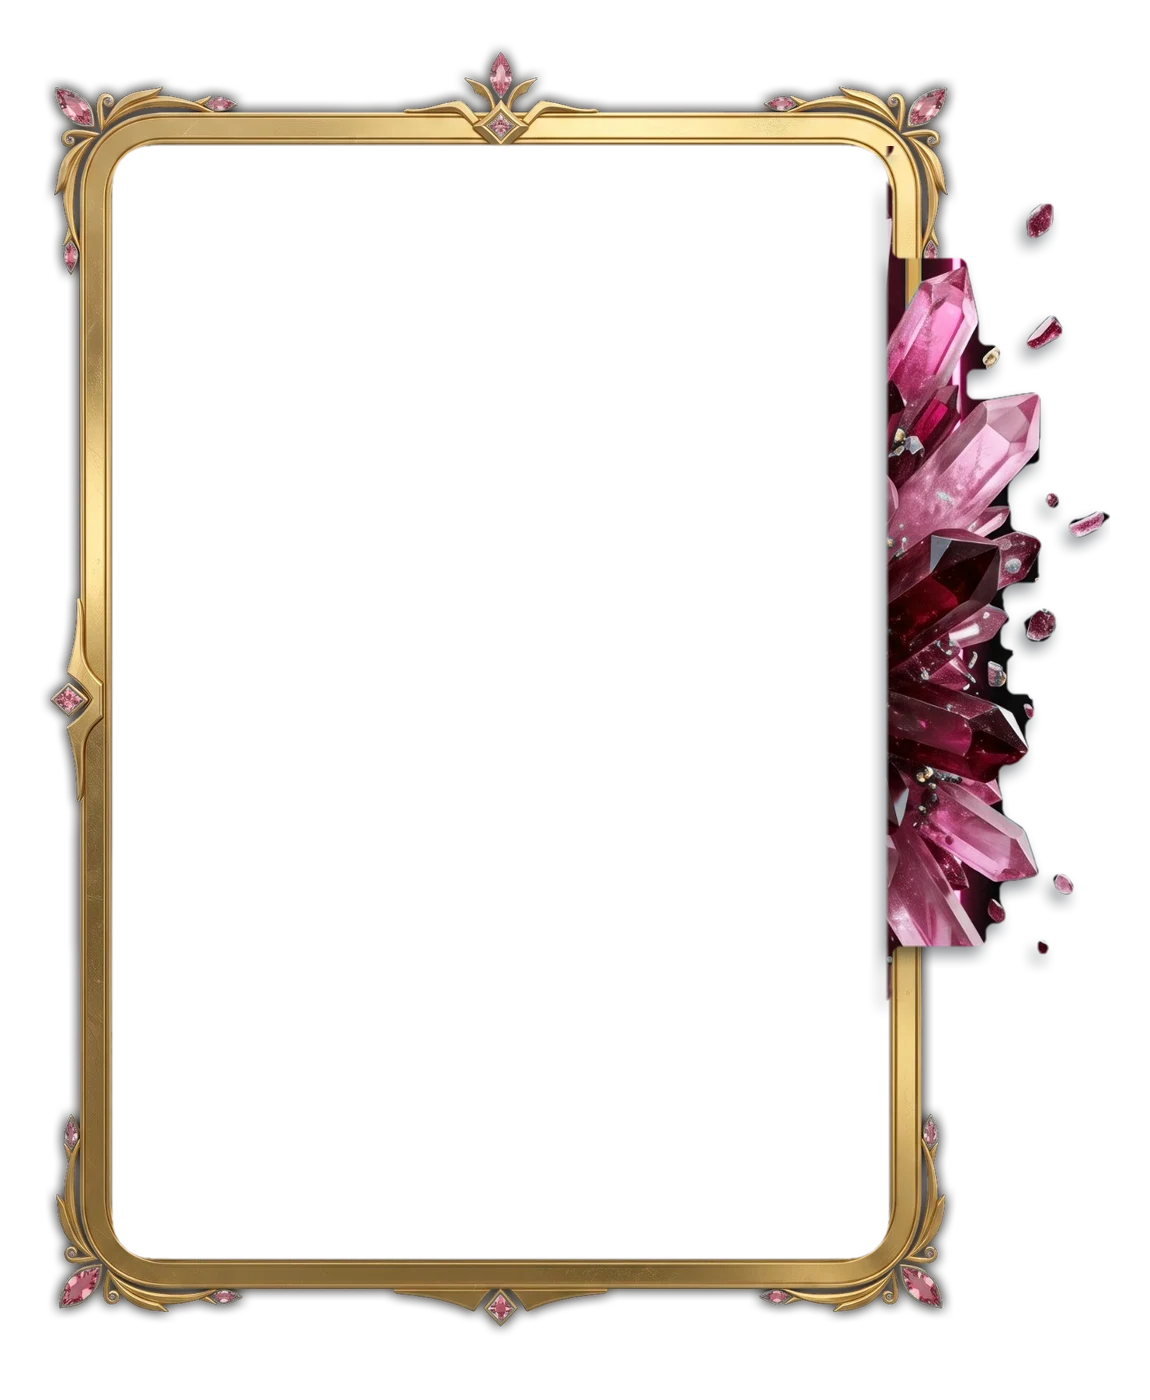
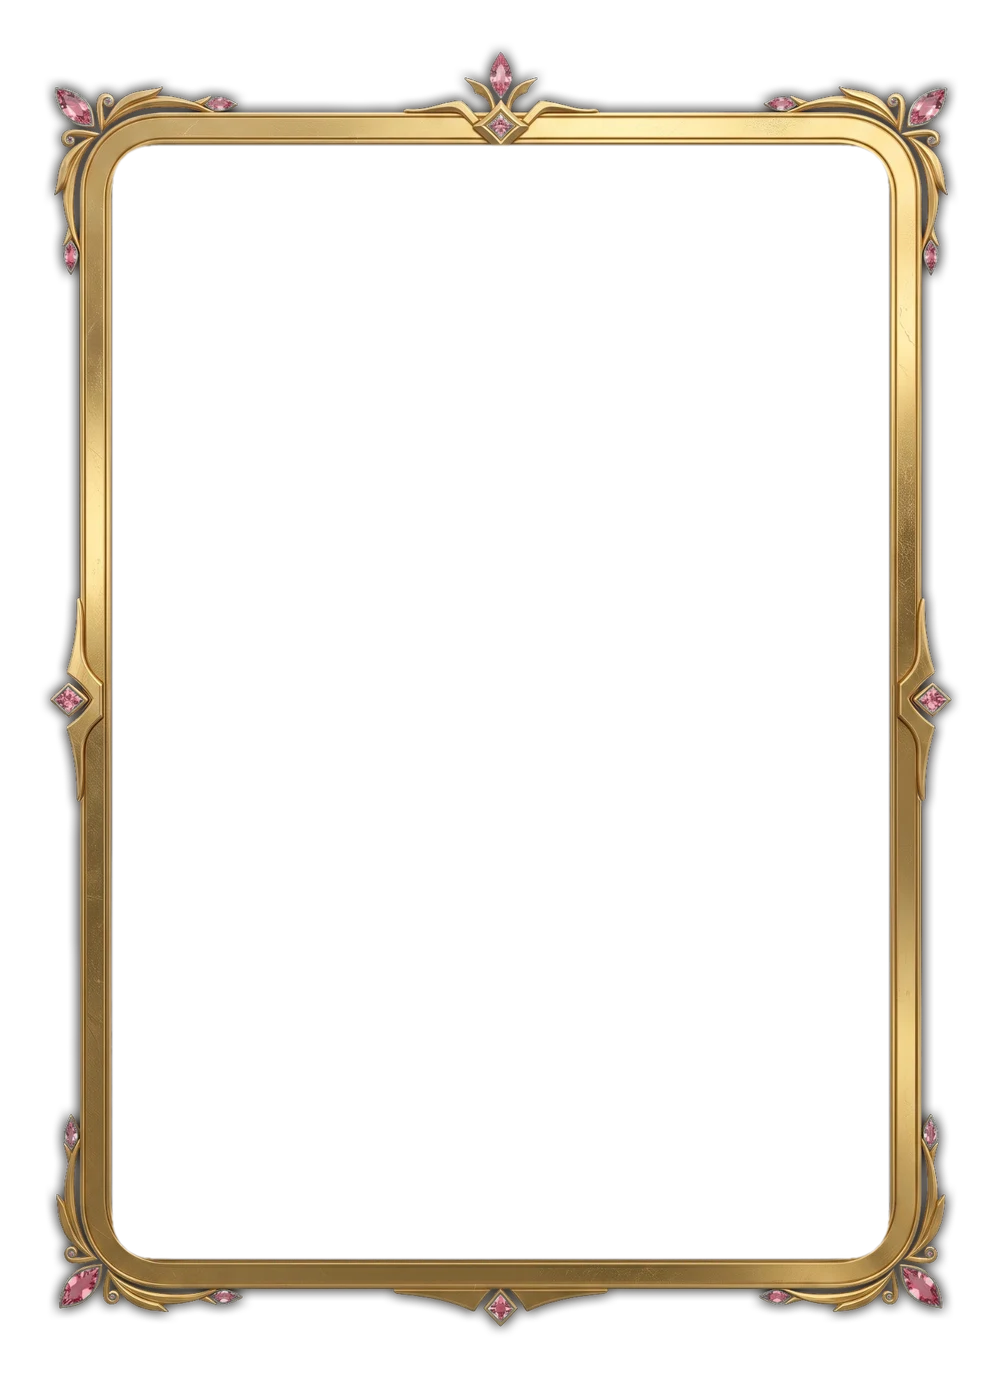
remove extracted cluster from Rubi and Icone until proper render art arrives
Claude-Session: https://claude.ai/code/session_01N8XLJoyFiwvoZXFrULaieo

diff --git a/components/cancha-card.tsx b/components/cancha-card.tsx
@@ -149,7 +149,7 @@ const ROUPAS = {
   esmeralda: { background: "premium-esmeralda", overflow: "premium-esmeralda-vaza", overflowWidth: 774 / 714, artFrame: true, trim: null, metal: ["#0f6b45", "#0f6b45", "#5fd39a"], accent: "#5fd39a", light: "160 255 200", bar: "#03140c", muted: "#9fffc8", sparkles: false, neon: "#2dffa0" },
   safira: { background: "premium-safira", overflow: "premium-safira-vaza", overflowWidth: 774 / 714, artFrame: true, trim: null, metal: ["#1d4fa8", "#1d4fa8", "#7fb0ff"], accent: "#7fb0ff", light: "170 200 255", bar: "#040a1c", muted: "#a9c8ff", sparkles: false, neon: "#36a6ff" },
   ametista: { background: "premium-ametista", overflow: "premium-ametista-vaza", overflowWidth: 774 / 714, artFrame: true, trim: null, metal: ["#5b2fa0", "#5b2fa0", "#b99bff"], accent: "#b99bff", light: "220 190 255", bar: "#0e0620", muted: "#d2bcff", sparkles: false, neon: "#c46bff" },
-  rubi: { background: "premium-rubi-fino", overflow: "premium-rubi-fino-vaza", overflowWidth: 1.15, artInset: { x: 3.69, y: 2.64, radius: 4.5 }, window: "ring", windowInset: { x: 3.69, y: 2.64 }, windowRadius: 4.5, contentPad: 3.99, artFrame: true, trim: null, metal: ["#9b1530", "#9b1530", "#ff8fa3"], accent: "#ff8fa3", light: "255 190 200", bar: "#1a0309", muted: "#ffb3c0", sparkles: false, neon: "#ff2f66" },
+  rubi: { background: "premium-rubi-fino", overflow: "premium-rubi-fino-vaza", artInset: { x: 3.69, y: 2.64, radius: 4.5 }, window: "ring", windowInset: { x: 3.69, y: 2.64 }, windowRadius: 4.5, contentPad: 3.99, artFrame: true, trim: null, metal: ["#9b1530", "#9b1530", "#ff8fa3"], accent: "#ff8fa3", light: "255 190 200", bar: "#1a0309", muted: "#ffb3c0", sparkles: false, neon: "#ff2f66" },
   // Ícone: branco creme com moldura de ouro claro, lembrando a carta Icon do FIFA (2026-10-29).
   // Voltagem (2026-11-05, pedido do dono do app: o estilo da borda da referência dele no nosso retângulo): fio duplo de ouro pálido por dentro e
   // linhas de neon por fora, com o degrau onde se dividem (`prototipos/voltagem.cjs`). Janela `ring` recuada até o fio de dentro.
@@ -158,7 +158,7 @@ const ROUPAS = {
   // Maré (2026-11-05, teste do kit em camadas: fundo e borda feitos no Gemini com o gabarito 5:7, montados por `prototipos/montar-carta.cjs`):
   // tromba-d'água num mar de enchente e moldura de ouro com a "capa" de lâminas nos cantos de baixo. Janela padrão (`ring`, 64,5 px da caixa).
   mare: { background: "premium-mare", overflow: "premium-mare-vaza", artInset: { x: 3.69, y: 2.64, radius: 4.5 }, window: "ring", windowInset: { x: 3.69, y: 2.64 }, windowRadius: 4.5, contentPad: 3.99, artFrame: true, clean: true, trim: null, metal: ["#b8902f", "#b8902f", "#fff1c2"], accent: "#f3d27a", light: "120 230 255", bar: "#031018", muted: "#bfeeff", sparkles: false, neon: "#f3d27a" },
-  icone: { background: "premium-icone-fino", clean: true, overflow: "premium-icone-fino-vaza", overflowWidth: 1.15, artInset: { x: 3.69, y: 2.64, radius: 4.5 }, window: "ring", windowInset: { x: 3.69, y: 2.64 }, windowRadius: 4.5, contentPad: 3.99, artFrame: true, trim: null, metal: ["#c9a24e", "#c9a24e", "#fff4d6"], accent: "#e2c06e", light: "255 240 200", bar: "#1a140a", muted: "#f0dfb5", sparkles: false, neon: "#ffcf4d" },
+  icone: { background: "premium-icone-fino", clean: true, overflow: "premium-icone-fino-vaza", artInset: { x: 3.69, y: 2.64, radius: 4.5 }, window: "ring", windowInset: { x: 3.69, y: 2.64 }, windowRadius: 4.5, contentPad: 3.99, artFrame: true, trim: null, metal: ["#c9a24e", "#c9a24e", "#fff4d6"], accent: "#e2c06e", light: "255 240 200", bar: "#1a140a", muted: "#f0dfb5", sparkles: false, neon: "#ffcf4d" },
   // Aurora (2026-11-04, GUARDADA: o dono gostou mas pediu para não aplicar ainda; não está em `CARD_SKINS`, então não aparece na Loja.
   // Para usar: entrada em `CARD_SKINS` (sugestão nível 14, 1600 CC), `case` em `skinRoupa` e `SKIN_CLASSES`): aurora boreal renderizada pixel a pixel em código (`prototipos/premium-aurora.cjs`), fio de ouro, respiro preto,
   // tubo de neon verde-água por fora e a Estrela Polar no topo; a luz da aurora vaza sobre a moldura. Concêntrica: windowRadius = raio da carta − o aro.
